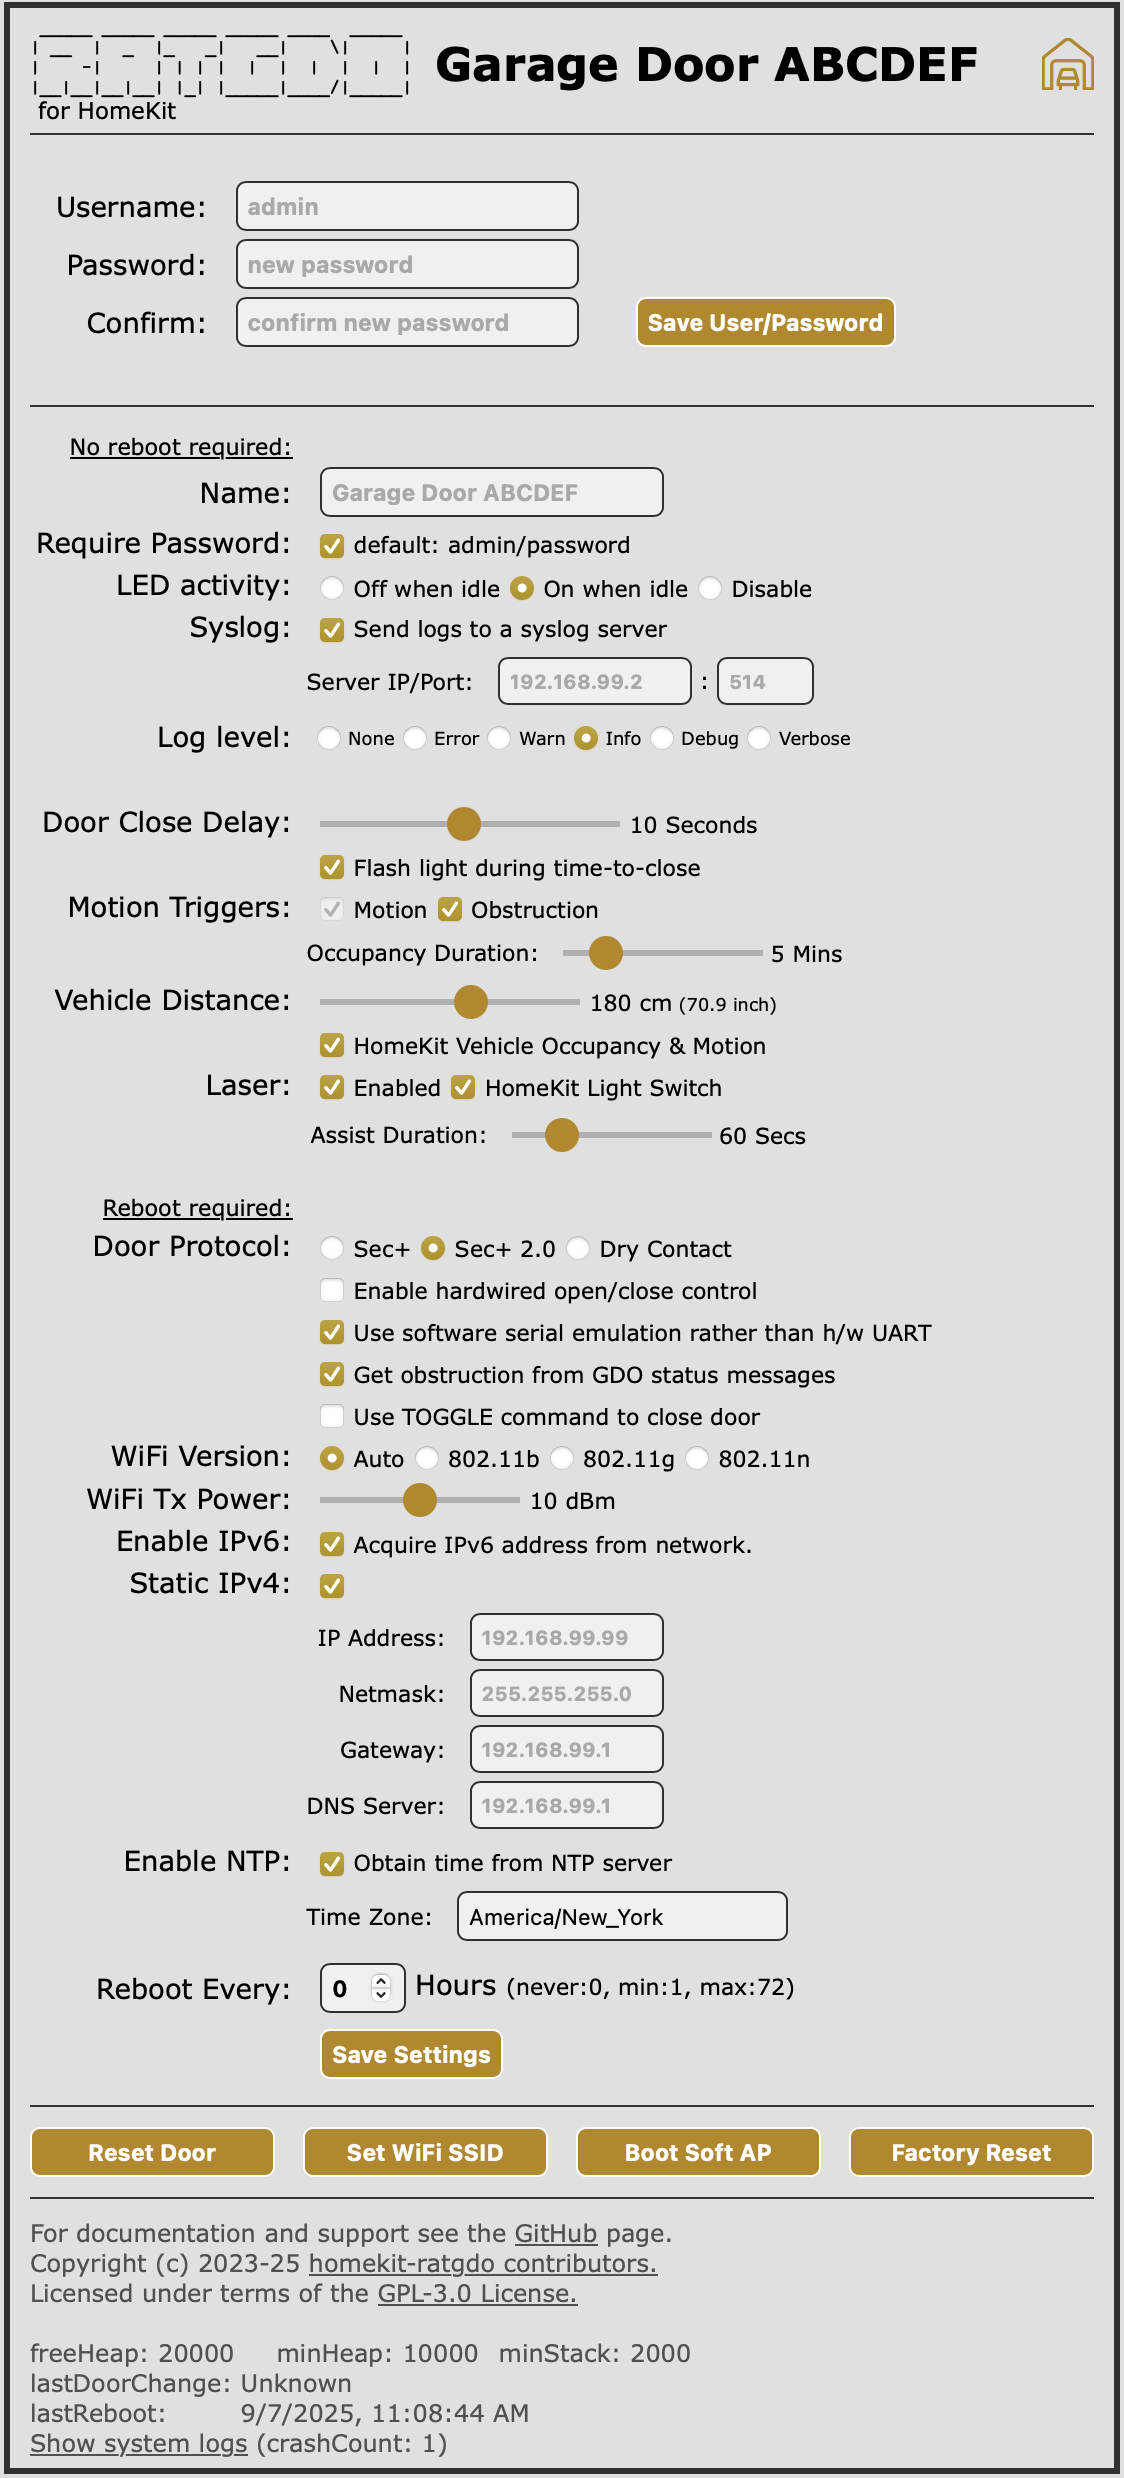
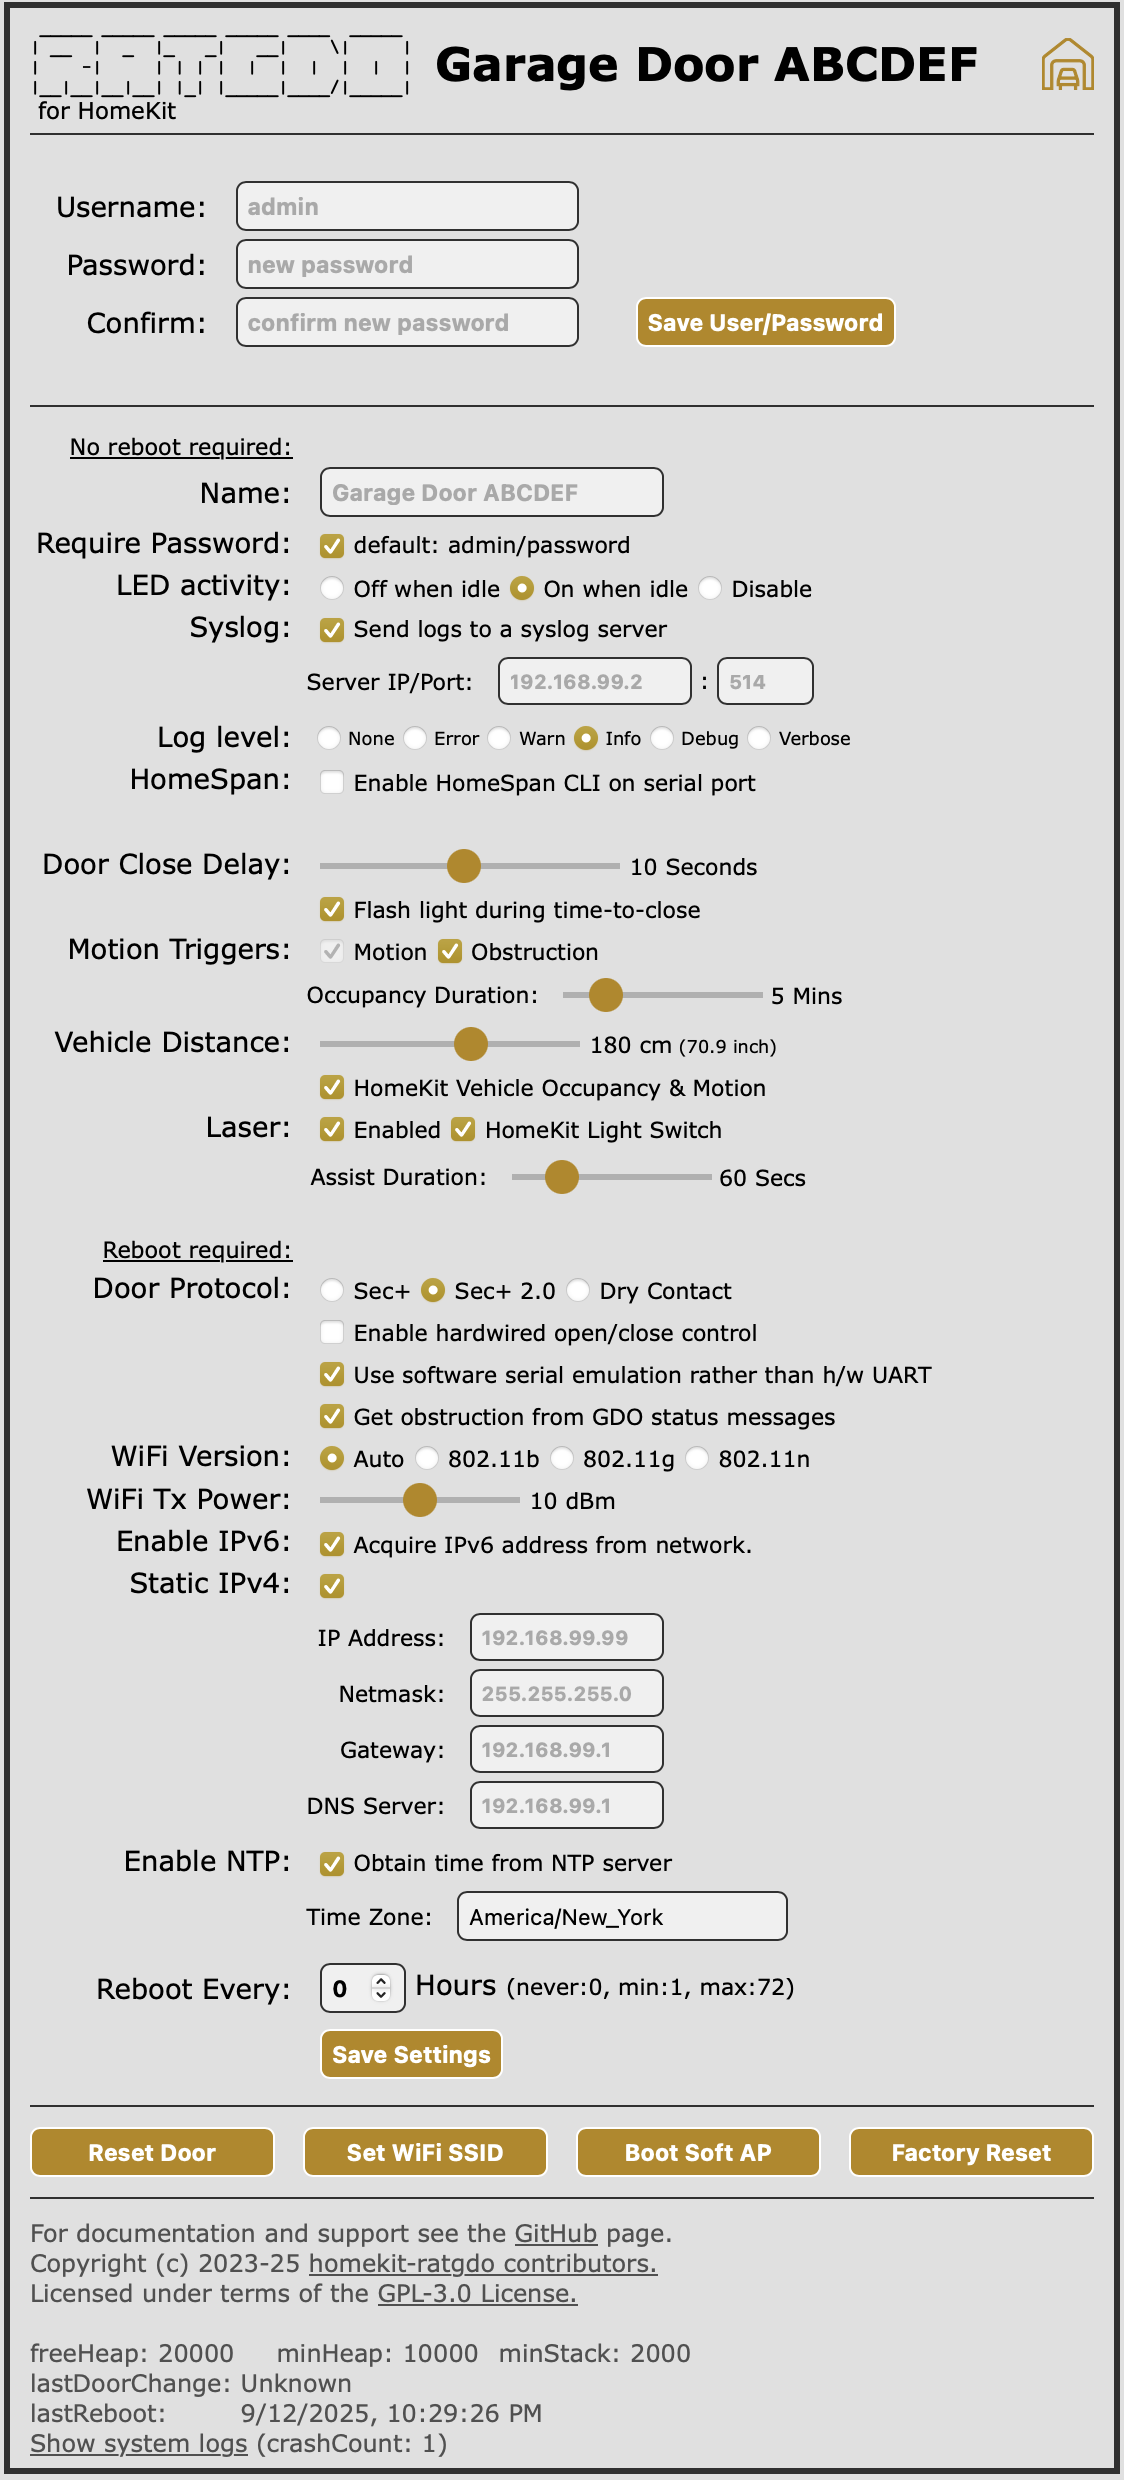
Update CHANGELOG.md, README.md and screen captures

diff --git a/README.md b/README.md
@@ -96,7 +96,18 @@ This section also displays the current firmware version, with a statement on whe
 
 Status of the garage door along with action buttons are shown in this section. The status values are updated in real time whether triggered by one of the action buttons or an external action (motion in the garage, someone using a door remote).
 
-For ratgdo32-disco boards, vehicle status is shown as Away, Parked, Arriving or Departing. A distance value in centimeters is also shown that represents the distance between the ratgdo board and either the garage floor (if no vehicle present) or the roof/hood of the vehicle. It is normal for this value to fluctuate. See section below on setting vehicle distance threshold.
+If you have a Security+ 1.0 door then you may see the word _(emulation)_ next to the door protocol. This indicates that you do not have a digital wall panel and the ratgdo is emulating this.
+
+Next to the obstruction status you will see the word _(Pin-based)_ or _(Message)_ that indicates how ratgdo is detecting whether there is an obstruction that may prevent the door from closing. By default, ratgdo will attempt to use the pin-based method and only fall back to using the garage door status messages if no signal is detected on the obstruction sensor wire.  You can force ratgdo to use status messages, see below.
+
+For Security+ 2.0 doors, the number of times the door has been opened and closed is shown as _Cycle Count_ and, if equipped, the status of the emergency backup battery.
+
+_Opening_ and _Closing_ values represent the time it takes for the door to open or close. This is averaged over the last five door operations amd resets when the ratgdo is rebooted.
+
+For ratgdo32-disco boards, vehicle status is shown as _Away_, _Parked_, _Arriving_ or _Departing_. A distance value in centimeters is also shown that represents the distance between the ratgdo board and either the garage floor (if no vehicle present) or the roof/hood of the vehicle. It is normal for this value to fluctuate. See section below on setting vehicle distance threshold.
+
+> [!NOTE]
+> It is important that the distance sensor does not point at the glass windshield of your vehicle as this will give unreliable results.
 
 ### Information section
 
@@ -145,6 +156,10 @@ This setting allows you to send the ratgdo logs to a syslog server. Enter the IP
 ### Log Level
 
 You can select the verbosity of log messages from none to verbose. Default is _Info_ level. If you are diagnosing a problem then you should change this to _Debug_ level.
+
+### HomeSpan
+
+On ratgdo32 boards we use an external library, [HomeSpan](https://github.com/HomeSpan/HomeSpan), for all HomeKit operations. When debugging using the serial port it may be helpful to enable HomeSpan's message logging and Command Line Interface (CLI). If you enable this setting then Improv-based WiFi provisioning is disabled unless the ratgdo32 boots into SoftAP mode.
 
 ### Door Close Delay
 
@@ -204,13 +219,12 @@ For Security+ 1.0 and Security +2.0 it is possible to repurpose the sensors used
 
 For Security+ 1.0 and Security+ 2.0, communications with the garage door uses a serial port. This can be either the ESP32's built-in hardware UART or a software emulation of a UART. Software emulation is required for Security+ 2.0 to allow for automatic sensing and changing of the baud rate... without this, the ratgdo cannot detect button presses at the garage door wall panel controller. For Security+ 1.0, software emulation is optional. If you experience communication errors you can try changing to use hardware UART.
 
+> [!NOTE]
+> This selection will only be available if the ratgdo firmware was built with the external GDOLIB library.
+
 ### Get obstruction from GDO status messages
 
-For Security+ 1.0 and Security +2.0, ratgdo obtains obstruction state from status messages sent by the door opener. These messages can sometimes be slow to report a change in obstruction status. Unselecting this option will tell the ratgdo to monitor the hardwired obstruction sensor pin directly.
-
-### Use TOGGLE command to close door
-
-If your Security+ 2.0 door is installed without obstruction sensors then it may not respond to the door action CLOSE command. Use this setting to change the command sent to close an open door to the TOGGLE command.
+By default ratgdo obtains obstruction state by monitoring signals on the sensor wire. The door also reports status in messages sent by the GDO and ratgdo will fall back to use status messages if no signal is detected on the wire. Selecting this option will force the ratgdo to always use status messages. Note that the messages method can be slow to report a change in obstruction state.
 
 ### WiFi Version _(not supported on ratgdo32 boards)_
 
@@ -499,7 +513,7 @@ having to remember PlatformIO-specific `pio` commands. The important ones are `r
 
 ## Acknowledgements & Credits.
 
-The original ESP8266 firmware was written by [Brandon Matthews](https://github.com/thenewwazoo). The ESP32 firmware was written by, and ongoing maintenance for both versions is provided by, [David Kerr](https://github.com/dkerr64). We are thankful for lots of help from contributors:
+The original ESP8266 HomeKit firmware was written by [Brandon Matthews](https://github.com/thenewwazoo). The ESP32 firmware was written by, and ongoing maintenance for both versions is provided by, [David Kerr](https://github.com/dkerr64). We are thankful for lots of help from contributors:
 
 - [Donavan Becker](https://github.com/donavanbecker)
 - [Adam Franke](https://github.com/frankea)

diff --git a/CHANGELOG.md b/CHANGELOG.md
@@ -4,9 +4,9 @@
 
 All notable changes to `homekit-ratgdo32` will be documented in this file. This project tries to adhere to [Semantic Versioning](http://semver.org/).
 
-## v3.3.0 (2025-09-??)
+## v3.3.0 (2025-09-13)
 
-Version 3.3.0 is a minor upgrade for ESP32-based ratgdo boards. Almost all source files for the ESP8266 and ESP32 versions of ratgdo have been merged which results in minor changes to the underlying features and function for ESP32 versions. The main benefit is for the original ESP8266-based ratgdo boards.
+Version 3.3.0 is a significant upgrade for ESP32-based ratgdo boards. Almost all source files for the ESP8266 and ESP32 versions of ratgdo have been merged which results in minor changes to the underlying features and function for ESP32 versions. The main benefit is for the original ESP8266-based ratgdo boards.
 
 While source files have been merged there remain significant differences between the two board types, most notably in the library used to communicate with HomeKit which are completely different.
 
@@ -15,10 +15,11 @@ While source files have been merged there remain significant differences between
 ### What's Changed
 
 * Other... Significant source code changes to support move towards single code base for ESP8266 and ESP32
+* Other... Change garage door communications from using GDOLIB library to same code as used for ESP8266
 
 ### Known Issues
 
-* None 
+* After update, if the obstruction status has _(Message)_ noted next to the state, and you have not explicitly set to receive obstruction from GDO status messages (check settings webpage), then you should disconnect and re-connect power from the ratgdo32.
 
 ## v3.2.1 (2025-07-??)
 
